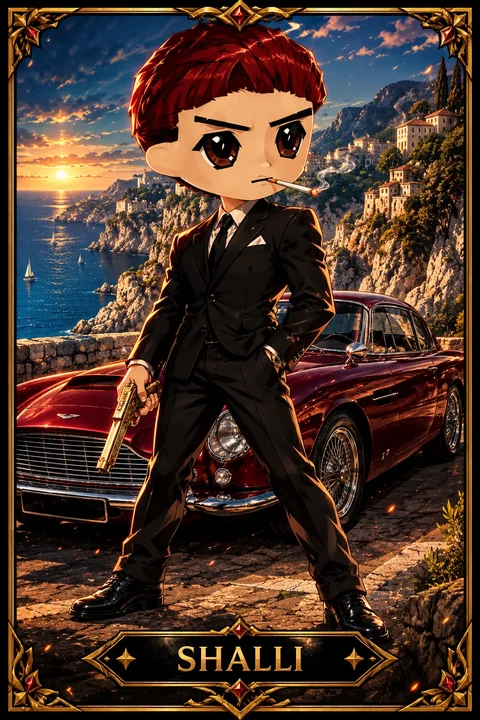
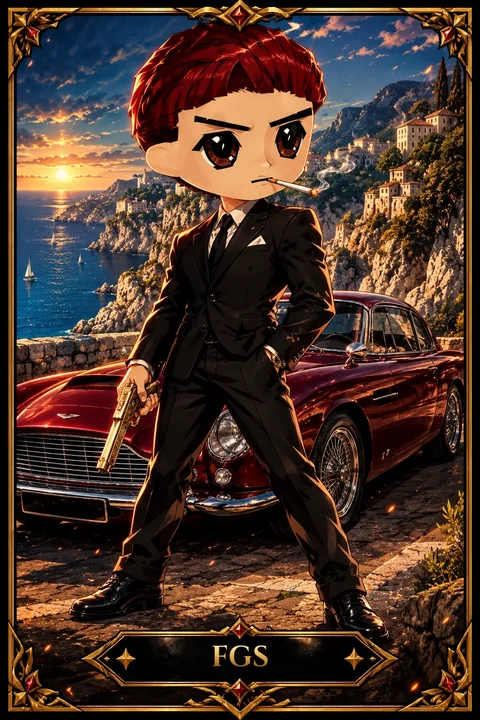
Rename to Trenches Kombat, add Laka's handle, fix card nameplates
- Title is now TRENCHES KOMBAT (subtitle: The Crypto Twitter Fighting Game)
- Laka's handle set to @Iaksalter in fighters.json
- Relettered the five card nameplates that didn't match the roster
  (Crypto Hak, Illusions, FGS, Ugly Grm, One Random Guy) and updated
  cardNameplate to match

Claude-Session: https://claude.ai/code/session_018wwbuy8rn6ASezEndyypSA

Changed region(s): [[0.375, 0.8861, 0.6562, 0.9472]]

diff --git a/index.html b/index.html
@@ -6,9 +6,9 @@
   <meta name="theme-color" content="#000000" />
   <meta name="apple-mobile-web-app-capable" content="yes" />
   <meta name="mobile-web-app-capable" content="yes" />
-  <title>The Trenches</title>
+  <title>Trenches Kombat</title>
   <meta name="description" content="A 2D anime fighting game starring the Crypto Twitter trenches." />
-  <meta property="og:title" content="The Trenches" />
+  <meta property="og:title" content="Trenches Kombat" />
   <meta property="og:description" content="31 fighters from Crypto Twitter. Pick yours. FINISH THEM." />
   <meta property="og:image" content="assets/cards/promise-sol.webp" />
   <link rel="preconnect" href="https://fonts.googleapis.com" />
@@ -31,7 +31,7 @@
 </head>
 <body>
   <div id="game"></div>
-  <div id="rotate"><div class="phone"></div>ROTATE YOUR PHONE<small>The Trenches plays in landscape</small></div>
+  <div id="rotate"><div class="phone"></div>ROTATE YOUR PHONE<small>Trenches Kombat plays in landscape</small></div>
   <script type="module" src="/src/main.ts"></script>
 </body>
 </html>

diff --git a/src/scenes/BootScene.ts b/src/scenes/BootScene.ts
@@ -14,7 +14,7 @@ export class BootScene extends Phaser.Scene {
   preload() {
     const w = GAME_W;
     const h = GAME_H;
-    const label = this.add.text(w / 2, h / 2 - 40, 'LOADING THE TRENCHES', { fontFamily: 'Impact, sans-serif', fontSize: '28px', color: '#f5c542' }).setOrigin(0.5);
+    const label = this.add.text(w / 2, h / 2 - 40, 'LOADING TRENCHES KOMBAT', { fontFamily: 'Impact, sans-serif', fontSize: '28px', color: '#f5c542' }).setOrigin(0.5);
     const frame = this.add.rectangle(w / 2, h / 2 + 10, 520, 22).setStrokeStyle(2, GOLD_HEX);
     const bar = this.add.rectangle(w / 2 - 256, h / 2 + 10, 0, 14, GOLD_HEX).setOrigin(0, 0.5);
     this.load.on('progress', (v: number) => (bar.width = 512 * v));

diff --git a/src/config.ts b/src/config.ts
@@ -1,7 +1,7 @@
 // Global, easy-to-change settings. Gameplay tuning lives in src/data/tuning.ts.
 
-export const GAME_TITLE = 'THE TRENCHES';
-export const GAME_SUBTITLE = 'CRYPTO TWITTER KOMBAT';
+export const GAME_TITLE = 'TRENCHES KOMBAT';
+export const GAME_SUBTITLE = 'THE CRYPTO TWITTER FIGHTING GAME';
 
 export const GAME_W = 1280;
 export const GAME_H = 720;

diff --git a/README.md b/README.md
@@ -1,4 +1,4 @@
-# The Trenches
+# Trenches Kombat
 
 A 2D anime-style fighting game in the spirit of Mortal Kombat, starring 31 fighters from the Crypto Twitter trenches. Pick a fighter, fight the CPU or a friend, then **FINISH THEM**.
 
@@ -104,11 +104,11 @@ Combat code only talks to the `FighterView` interface. To give a fighter real po
 
 Poses that exist replace the cut-out for that animation; anything missing falls back to the Phase A puppet.
 
-## Open questions (from the spec)
+## Decisions on the spec's open questions
 
-- Final game title (currently "The Trenches", set in `src/config.ts`)
-- Laka's X handle (`null` in `fighters.json` for now)
-- Five card nameplates differ from the roster names (Crypto Hak → "CRYPTO HAKO", Illusions → "AMIN", FGS → "SHALLI", Ugly Grm → "UGLY", One Random Guy → "PRAISE"). The game UI uses the roster names.
+- Title: **Trenches Kombat** (set in `src/config.ts`)
+- Laka's handle: @Iaksalter
+- The five mismatched card nameplates were mistakes in the art. They've been relettered to the roster names (Crypto Hak, Illusions, FGS, Ugly Grm, One Random Guy).
 - Several cards are based on existing anime/comic characters and NFT collections. Fine for a private fan project; they'd need original art before any public or commercial release.
 
 This is a fan-made parody. It isn't affiliated with any game studio and uses no Mortal Kombat logos, fonts or audio.
